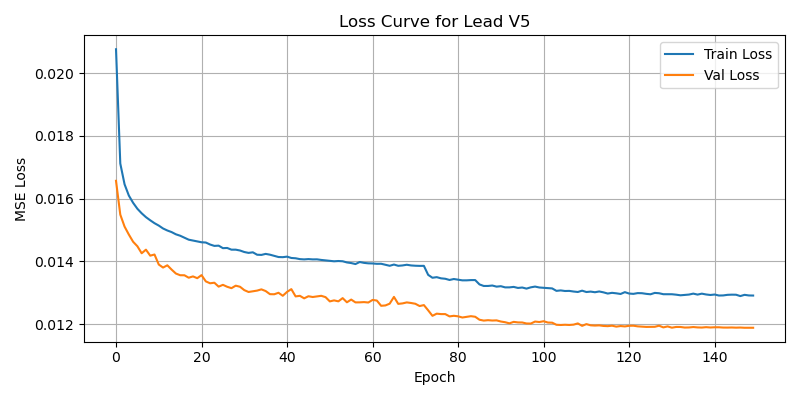
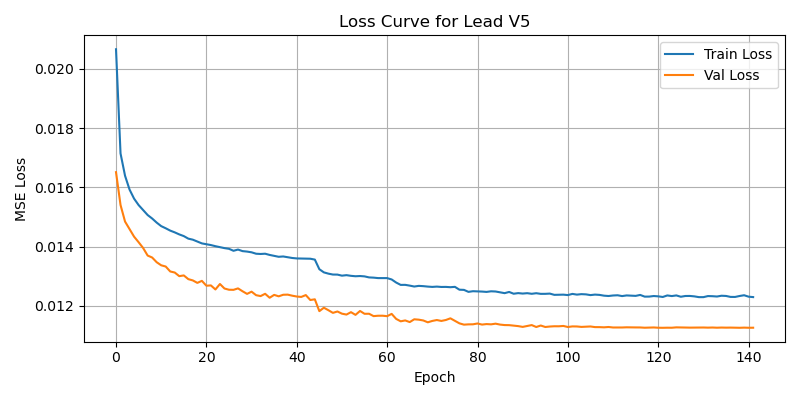
Adding frequency features

diff --git a/QRS_to_Multilead_Reconstruction/MLP_Model.py b/QRS_to_Multilead_Reconstruction/MLP_Model.py
@@ -41,34 +41,39 @@ def extract_features_and_targets(data, target_lead):
         if target_lead not in seg['other_leads']:
             continue
         try:
-            # Interval-based + amplitude features
             pqrst_I = seg['pqrst_lead_I']
             pqrst_II = seg['pqrst_lead_II']
             (_, ap1), (tq1, aq1), (tr1, ar1), (ts1, as1), (tt1, at1) = pqrst_I
             (_, ap2), (tq2, aq2), (tr2, ar2), (ts2, as2), (tt2, at2) = pqrst_II
+
             pr_interval_I = tr1 - tq1
             qrs_duration_I = ts1 - tq1
             qt_interval_I = tt1 - tq1
             pr_interval_II = tr2 - tq2
             qrs_duration_II = ts2 - tq2
             qt_interval_II = tt2 - tq2
-            # Metadata
+
             age = seg.get("age", 0)
             sex = 1 if str(seg.get("sex", "M")).upper().startswith("M") else 0
             hr = seg.get("hr", 0)
-            # One-hot encoded features
             onehot_values = [seg.get(name, 0) for name in encoded_features]
-            # Statistical features
+
             stats_i = seg['stats_lead_I']
             stats_ii = seg['stats_lead_II']
+            freq_i = seg['freq_lead_I']
+            freq_ii = seg['freq_lead_II']
+
             features = [
                 pr_interval_I, qrs_duration_I, qt_interval_I,
                 pr_interval_II, qrs_duration_II, qt_interval_II,
                 aq1, ar1, as1, at1, aq2, ar2, as2, at2,
                 age, sex, hr
-            ] + onehot_values + list(stats_i.values()) + list(stats_ii.values())
+            ] + onehot_values \
+              + list(stats_i.values()) + list(stats_ii.values()) \
+              + list(freq_i.values()) + list(freq_ii.values())
+
             target = seg['other_leads'][target_lead]
-            if len(target) == 80:  # Only accept 80-sample segments
+            if len(target) == 80:
                 X.append(features)
                 y.append(target)
         except Exception:
@@ -82,7 +87,7 @@ def build_mlp_model(input_dim):
     x = Dense(128, activation='relu')(x)
     x = Dropout(0.3)(x)
     x = Dense(64, activation='relu')(x)
-    out = Dense(80, activation='linear')(x)  # Output is now 80 samples
+    out = Dense(80, activation='linear')(x)
     model = Model(inputs=inp, outputs=out)
     model.compile(optimizer='adam', loss='mse', metrics=['mae'])
     return model
@@ -121,13 +126,16 @@ with open(metrics_file, 'w') as f:
         if X_train_full.size == 0 or X_test.size == 0:
             print(f"⚠ No data for lead {lead}, skipping.")
             continue
+
         X_train, X_val, y_train, y_val = train_test_split(
             X_train_full, y_train_full, test_size=0.1, random_state=42
         )
+
         scaler = StandardScaler()
         X_train_scaled = scaler.fit_transform(X_train)
         X_val_scaled = scaler.transform(X_val)
         X_test_scaled = scaler.transform(X_test)
+
         model = build_mlp_model(input_dim=X_train_scaled.shape[1])
         history = model.fit(
             X_train_scaled, y_train,
@@ -143,12 +151,15 @@ with open(metrics_file, 'w') as f:
             ],
             verbose=1
         )
+
         y_pred = model.predict(X_test_scaled)
         rmse = np.sqrt(mean_squared_error(y_test, y_pred))
         r2 = r2_score(y_test, y_pred)
         corr = pearsonr(y_test.flatten(), y_pred.flatten())[0]
+
         f.write(f"Lead {lead}\nRMSE: {rmse:.4f}\nR^2: {r2:.4f}\nPearson Correlation: {corr:.4f}\n\n")
         print(f"✅ Lead {lead}: RMSE={rmse:.4f}, R²={r2:.4f}, Corr={corr:.4f}")
+
         plot_prediction(y_test[0], y_pred[0], lead, plot_dir / f"lead_{lead}_prediction.png")
         plot_loss_curve(history, lead, plot_dir / f"lead_{lead}_loss_curve.png")
 

diff --git a/QRS_to_Multilead_Reconstruction/PQRST_Stats_Segment_Extractor.py b/QRS_to_Multilead_Reconstruction/PQRST_Stats_Segment_Extractor.py
@@ -7,6 +7,8 @@ from pathlib import Path
 from tqdm import tqdm
 import matplotlib.pyplot as plt
 from scipy.stats import skew, kurtosis, entropy
+from scipy.signal import welch
+import pywt
 
 # --- Parameters ---
 sampling_rate = 100
@@ -45,6 +47,18 @@ def extract_stat_features(segment):
         'entropy': entropy(hist)
     }
 
+def extract_freq_features(segment, fs=100):
+    freqs, psd = welch(segment, fs=fs, nperseg=min(64, len(segment)))
+    dom_freq = freqs[np.argmax(psd)] if len(psd) > 0 else 0
+    psd_sum = np.sum(psd)
+    wavelet_coeffs = pywt.wavedec(segment, 'db6', level=2)
+    wavelet_energy = sum(np.sum(c**2) for c in wavelet_coeffs)
+    return {
+        'psd_total': psd_sum,
+        'dominant_freq': dom_freq,
+        'wavelet_energy': wavelet_energy
+    }
+
 def find_qspt(signal, r_peaks, sampling_rate, pre_window=0.06, post_window=0.12):
     pre_samples = int(pre_window * sampling_rate)
     post_samples = int(post_window * sampling_rate)
@@ -75,8 +89,6 @@ def build_dataset_with_stats(ecg_dataset, meta_df):
         age = row_meta.get("age", 0)
         sex = row_meta.get("sex", 0)
         hr = row_meta.get("hr", 0)
-        
-        # Gather one-hot encoded features
         onehot_features = {key: row_meta.get(key, 0) for key in encoded_features}
 
         lead_i = sample[:, 0]
@@ -106,8 +118,12 @@ def build_dataset_with_stats(ecg_dataset, meta_df):
             if start >= 0 and end <= sample.shape[0]:
                 segment_i = lead_i[start:end]
                 segment_ii = lead_ii[start:end]
+
                 stats_i = extract_stat_features(segment_i)
                 stats_ii = extract_stat_features(segment_ii)
+                freq_i = extract_freq_features(segment_i, fs=sampling_rate)
+                freq_ii = extract_freq_features(segment_ii, fs=sampling_rate)
+
                 other_leads_waveforms = {
                     lead_names[k]: sample[start:end, k] for k in range(12) if k not in [0, 1]
                 }
@@ -124,6 +140,8 @@ def build_dataset_with_stats(ecg_dataset, meta_df):
                                        (t_ii[r_ii_idx]/sampling_rate, lead_ii[t_ii[r_ii_idx]])],
                     "stats_lead_I": stats_i,
                     "stats_lead_II": stats_ii,
+                    "freq_lead_I": freq_i,
+                    "freq_lead_II": freq_ii,
                     "other_leads": other_leads_waveforms,
                     "age": age,
                     "sex": sex,
@@ -145,5 +163,4 @@ if __name__ == "__main__":
     print("Saving...")
     joblib.dump(train_set, output_dir / "pqrst_stats_train_80.pkl")
     joblib.dump(test_set, output_dir / "pqrst_stats_test_80.pkl")
-    print("✅ Done with statistical PQRST dataset (80 samples)!")
-
+    print("✅ Done with statistical + frequency PQRST dataset (80 samples)!")
